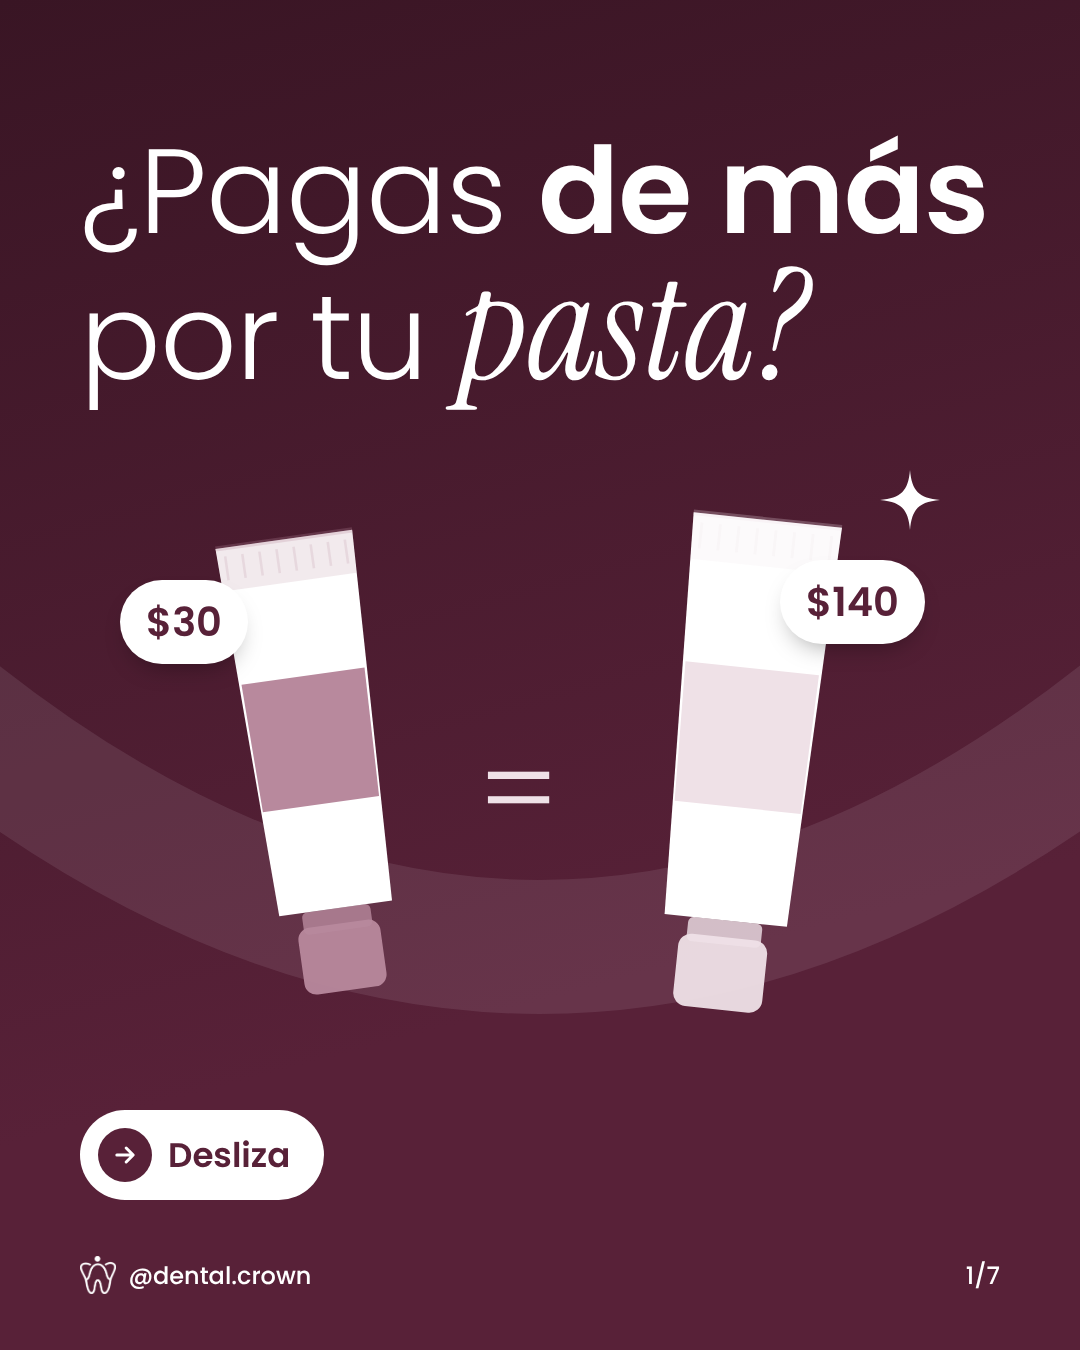
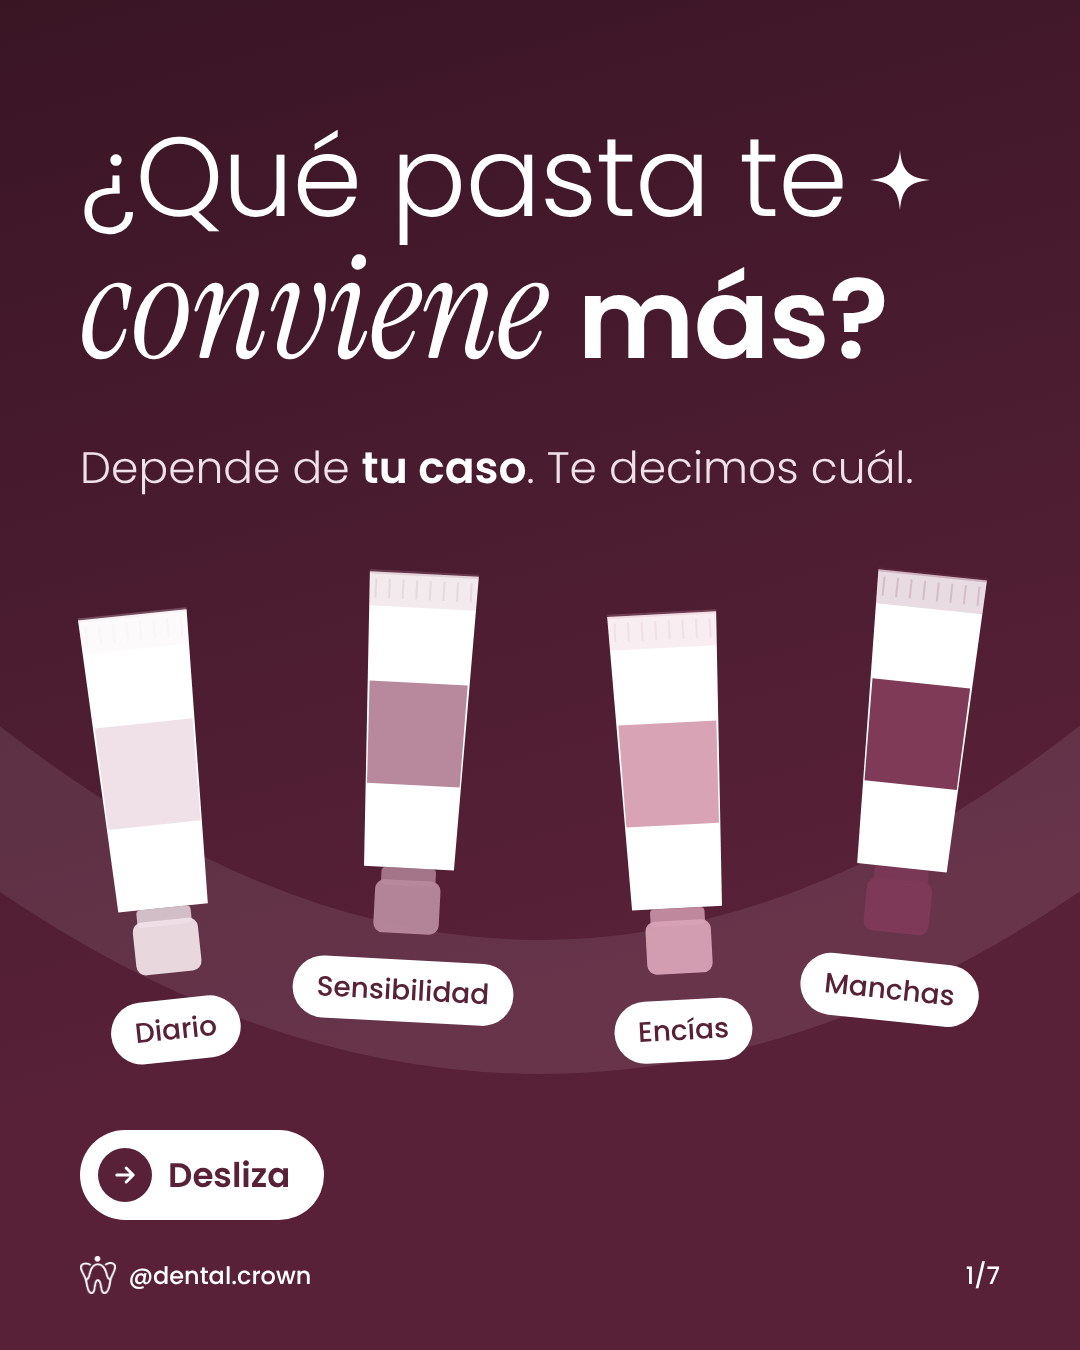
Carrusel pastas dentales: nueva portada «¿Qué pasta te conviene más?»
Claude-Session: https://claude.ai/code/session_01EttaFvckRqUE3QgK7HqTfA

diff --git a/post-pastas-dentales/texto-publicacion.md b/post-pastas-dentales/texto-publicacion.md
@@ -1,12 +1,12 @@
-# Carrusel: ¿Pagas de más por tu pasta?
+# Carrusel: ¿Qué pasta te conviene más?
 
 7 láminas de 1080 × 1350 (`pastas-1.png` a `pastas-7.png`).
 
 ## Texto para la publicación
 
-Una pasta de $30 y una de $140 pueden protegerte igual contra la caries. 🪥
+¿Qué pasta te conviene más? Depende de tu caso. 🪥
 
-Lo que importa es el flúor: búscalo en la etiqueta, entre 1,000 y 1,500 ppm.
+Para todos, lo básico es el flúor: búscalo en la etiqueta, entre 1,000 y 1,500 ppm. Desliza y descubre cuál es para ti: diario, sensibilidad, encías o manchas.
 
 ¿Dudas sobre cuál usar? Escríbenos por WhatsApp.
 
